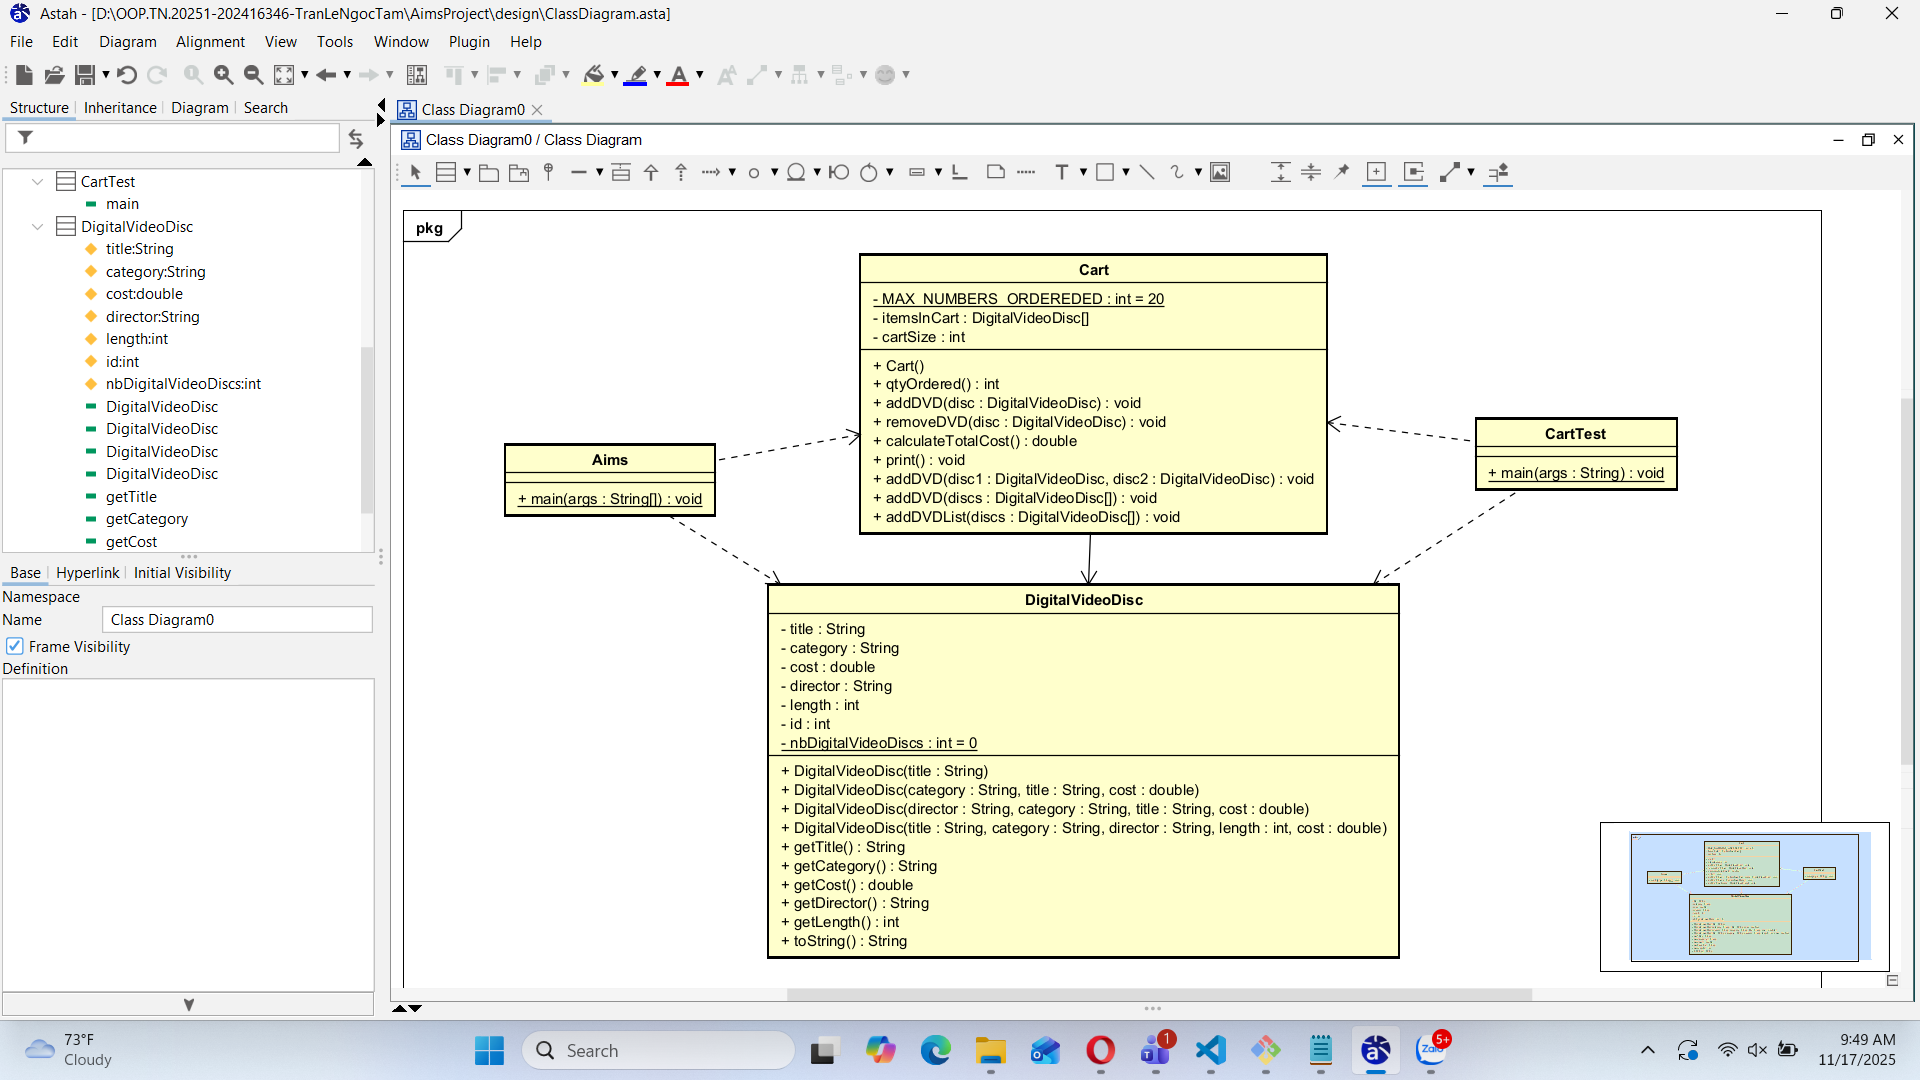
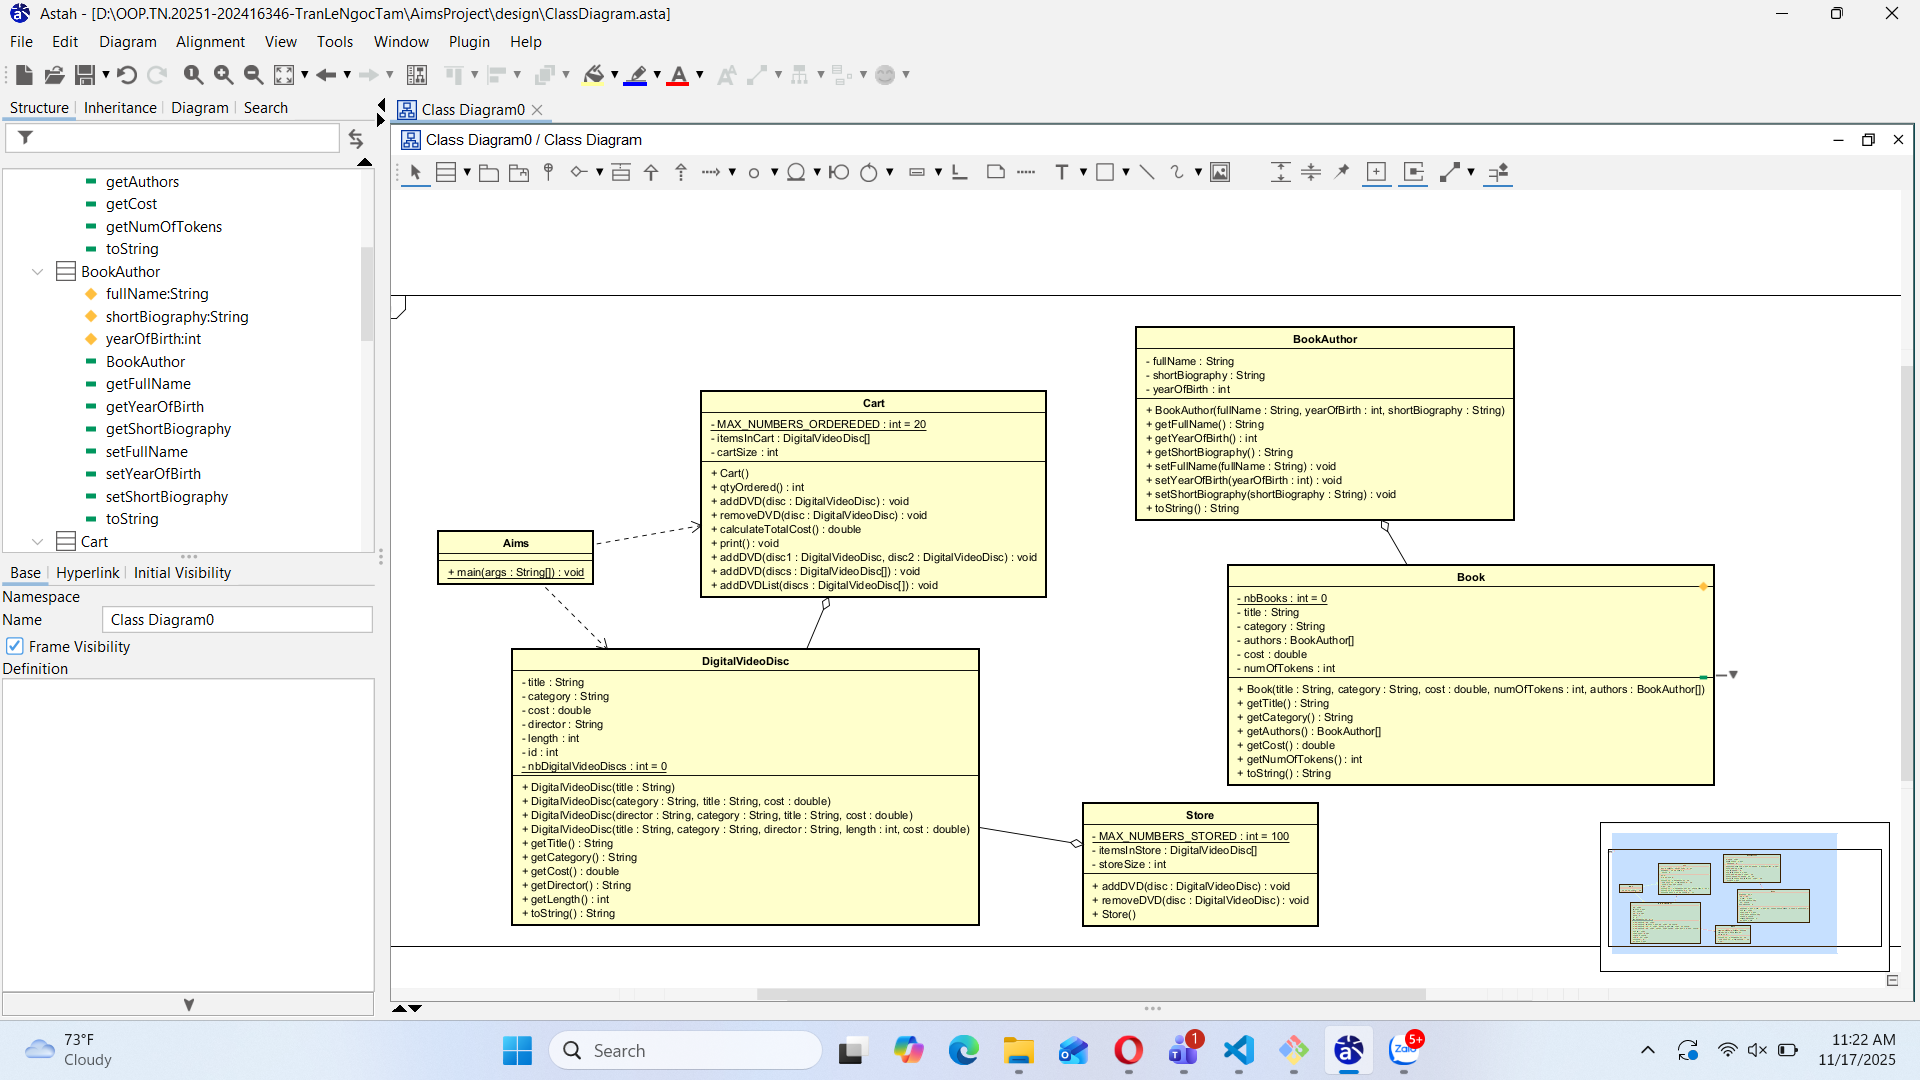
Add Book, BookAuthor, BookTest

diff --git a/AimsProject/src/com/hust/kstn/models/Book.java b/AimsProject/src/com/hust/kstn/models/Book.java
@@ -1,0 +1,50 @@
+package com.hust.kstn.models;
+
+import java.util.ArrayList;
+import java.util.List;
+
+public class Book {
+    private static int nbBooks = 0;
+    private int id;
+    private String title;
+    private String category;
+    private List<BookAuthor> authors = new ArrayList<>();
+    private double cost;
+    private int numOfTokens;
+    public Book(String title, String category, double cost, int numOfTokens, List<BookAuthor> authors) {
+        this.title = title;
+        this.category = category;
+        this.cost = cost;
+        this.numOfTokens = numOfTokens;
+        this.authors = authors;
+        this.id = ++nbBooks;
+    }
+    public int getId() {
+        return id;
+    }
+    public String getTitle() {
+        return title;
+    }
+    public String getCategory() {
+        return category;
+    }
+    public List<BookAuthor> getAuthors() {
+        return authors;
+    }
+    public double getCost() {
+        return cost;
+    }
+    public int numOfTokens() {
+        return numOfTokens;
+    }
+
+    @Override
+    public String toString() {
+        return "Book[" + this.id + "]["
+                + this.title + "]["
+                + this.cost + "]["
+                + this.category + "]["
+                + this.numOfTokens + "]"
+                + "\nAuthors: " + this.authors;
+    }
+}

diff --git a/AimsProject/src/com/hust/kstn/models/BookAuthor.java b/AimsProject/src/com/hust/kstn/models/BookAuthor.java
@@ -1,0 +1,41 @@
+package com.hust.kstn.models;
+
+public class BookAuthor {
+    private String fullName;
+    private int yearOfBirth;
+    private String shortBiography;
+    public BookAuthor(String fullName, int yearOfBirth, String shortBiography) {
+        this.fullName = fullName;
+        this.yearOfBirth = yearOfBirth;
+        this.shortBiography = shortBiography;
+    }
+    
+    public String getFullName() {
+        return fullName;
+    }
+    public int getYearOfBirth() {
+        return yearOfBirth;
+    }
+    public String getShortBiography() {
+        return shortBiography;
+    }
+
+    public void setFullName(String fullName) {
+        this.fullName = fullName;
+    }
+
+    public void setYearOfBirth(int yearOfBirth) {
+        this.yearOfBirth = yearOfBirth;
+    }
+
+    public void setShortBiography(String shortBiography) {
+        this.shortBiography = shortBiography;
+    }
+    
+    @Override
+    public String toString() {
+        return this.fullName + " ("
+                + this.yearOfBirth + ", "
+                + this.shortBiography + ")\n";
+    }
+}

diff --git a/AimsProject/src/com/hust/kstn/test/BookTest.java b/AimsProject/src/com/hust/kstn/test/BookTest.java
@@ -1,0 +1,16 @@
+package com.hust.kstn.test;
+
+import com.hust.kstn.models.Book;
+import com.hust.kstn.models.BookAuthor;
+import java.util.ArrayList;
+import java.util.List;
+
+public class BookTest {
+    public static void main(String[] args) {
+        List<BookAuthor> authors = new ArrayList<>();
+        authors.add(new BookAuthor("Tam", 2006, "An experienced author"));
+        authors.add(new BookAuthor("Ngoc", 2005, "A leecher"));
+        Book book = new Book("Java Programming", "Sci-fi", 500.0, 10, authors);
+        System.out.println(book);
+    }
+}
